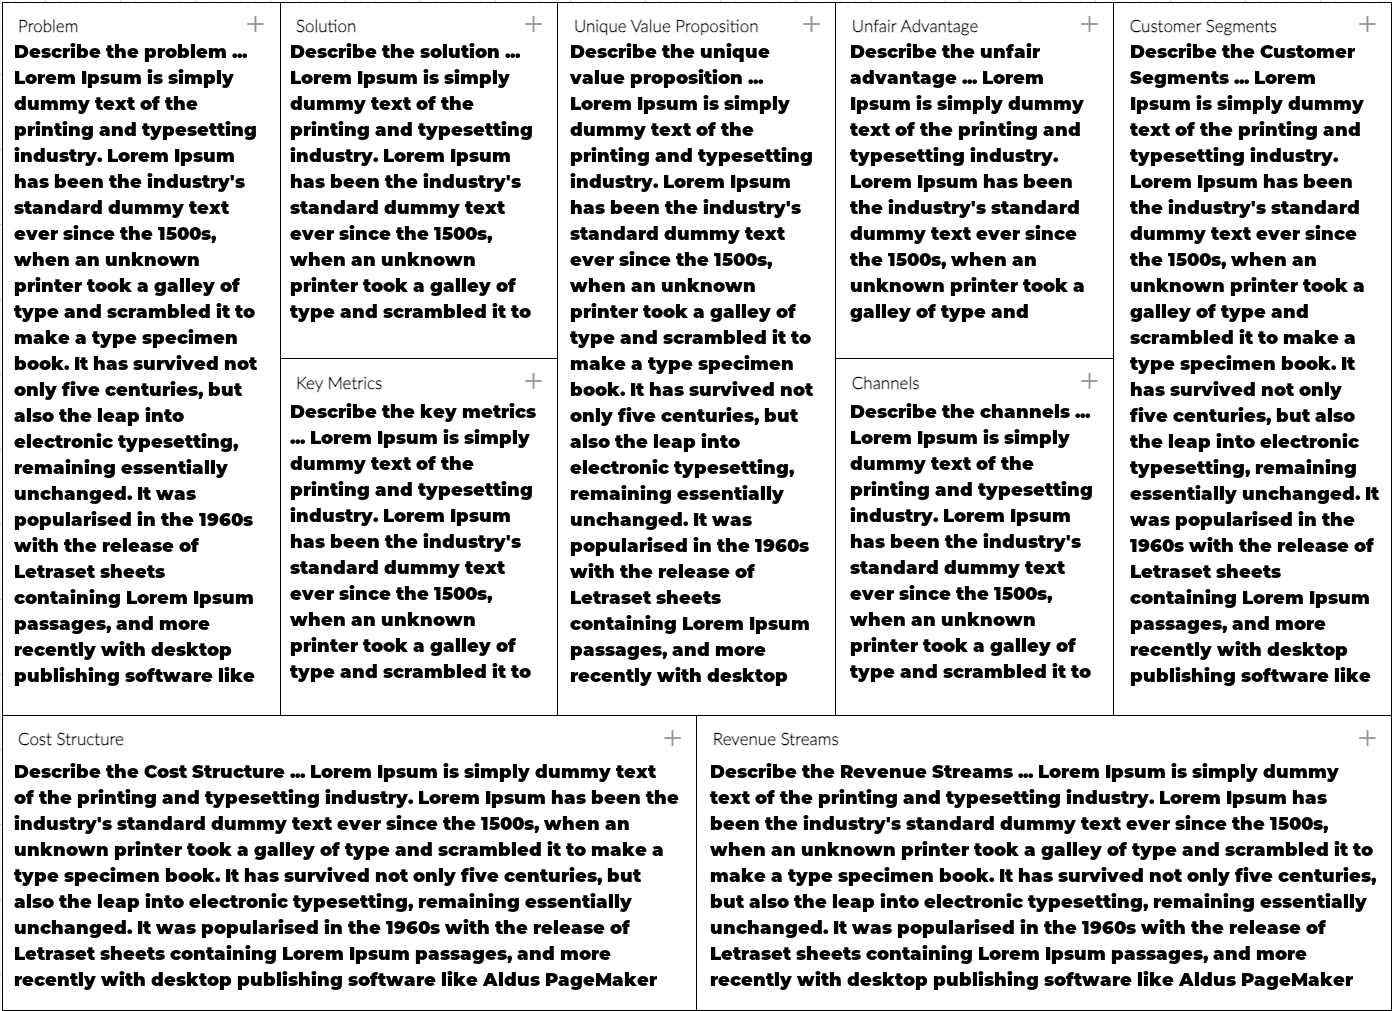
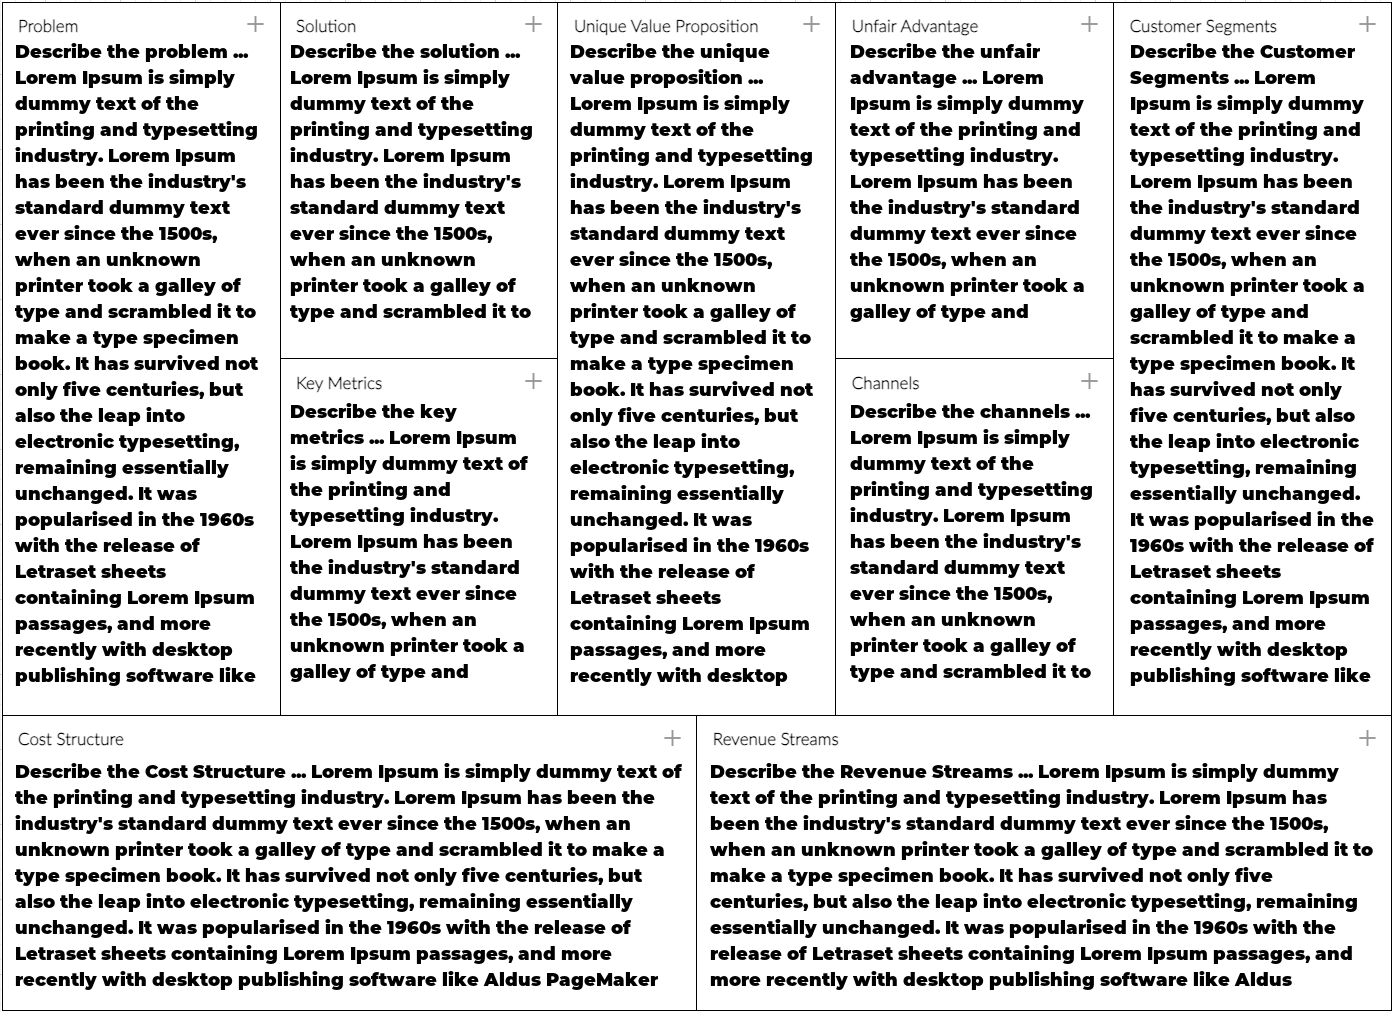
remove some variables to do addition directly for bbox in `draw.py`

diff --git a/scripts/draw.py b/scripts/draw.py
@@ -12,35 +12,33 @@ font_size = 18
 font = ImageFont.truetype(font_path, font_size)
 
 # Define the coordinates for each box on the Lean Canvas (left, top, right, bottom)
+small_box_height = 300
+small_box_width = 245
+large_box_width = 670
+box_height_dist1 = 360
+
 horiz_top_y1 = 40
-horiz_bottom_y1 = 340
-horiz_top_y2 = 400
+horiz_top_y2 = horiz_top_y1 + box_height_dist1
 horiz_bottom_y2 = 700
 horiz_top_y3 = 760
 horiz_bottom_y3 = 1000
-vert_left_x1 = 14
-vert_right_x1 = 260
+vert_left_x1 = 15
 vert_left_x2 = 290
-vert_right_x2 = 540
 vert_left_x3 = 570
-vert_right_x3 = 680
 vert_left_x4 = 710
-vert_right_x4 = 820
 vert_left_x5 = 850
-vert_right_x5 = 1100
 vert_left_x6 = 1130
-vert_right_x6 = 1380
 
 box_coords = {
-    "Problem": (vert_left_x1, horiz_top_y1, vert_right_x1, horiz_bottom_y2),
-    "Solution": (vert_left_x2, horiz_top_y1, vert_right_x2, horiz_bottom_y1),
-    "Key Metrics": (vert_left_x2, horiz_top_y2, vert_right_x2, horiz_bottom_y2),
-    "Unique Value Proposition": (vert_left_x3, horiz_top_y1, vert_right_x4, horiz_bottom_y2),
-    "Unfair Advantage": (vert_left_x5, horiz_top_y1, vert_right_x5, horiz_bottom_y1),
-    "Channels": (vert_left_x5, horiz_top_y2, vert_right_x5, horiz_bottom_y2),
-    "Customer Segments": (vert_left_x6, horiz_top_y1, vert_right_x6, horiz_bottom_y2),
-    "Cost Structure": (vert_left_x1, horiz_top_y3, vert_right_x3, horiz_bottom_y3),
-    "Revenue Streams": (vert_left_x4, horiz_top_y3, vert_right_x6, horiz_bottom_y3),
+    "Problem": (vert_left_x1, horiz_top_y1, vert_left_x1 + small_box_width, horiz_bottom_y2),
+    "Solution": (vert_left_x2, horiz_top_y1, vert_left_x2 + small_box_width, horiz_top_y1 + small_box_height),
+    "Key Metrics": (vert_left_x2, horiz_top_y2, vert_left_x2 + small_box_width, horiz_bottom_y2),
+    "Unique Value Proposition": (vert_left_x3, horiz_top_y1, vert_left_x3 + small_box_width, horiz_bottom_y2),
+    "Unfair Advantage": (vert_left_x5, horiz_top_y1, vert_left_x5 + small_box_width, horiz_top_y1 + small_box_height),
+    "Channels": (vert_left_x5, horiz_top_y2, vert_left_x5 + small_box_width, horiz_bottom_y2),
+    "Customer Segments": (vert_left_x6, horiz_top_y1, vert_left_x6 + small_box_width, horiz_bottom_y2),
+    "Cost Structure": (vert_left_x1, horiz_top_y3, vert_left_x1 + large_box_width, horiz_bottom_y3),
+    "Revenue Streams": (vert_left_x4, horiz_top_y3, vert_left_x6 + small_box_width, horiz_bottom_y3),
 }
 
 filler_text = """
